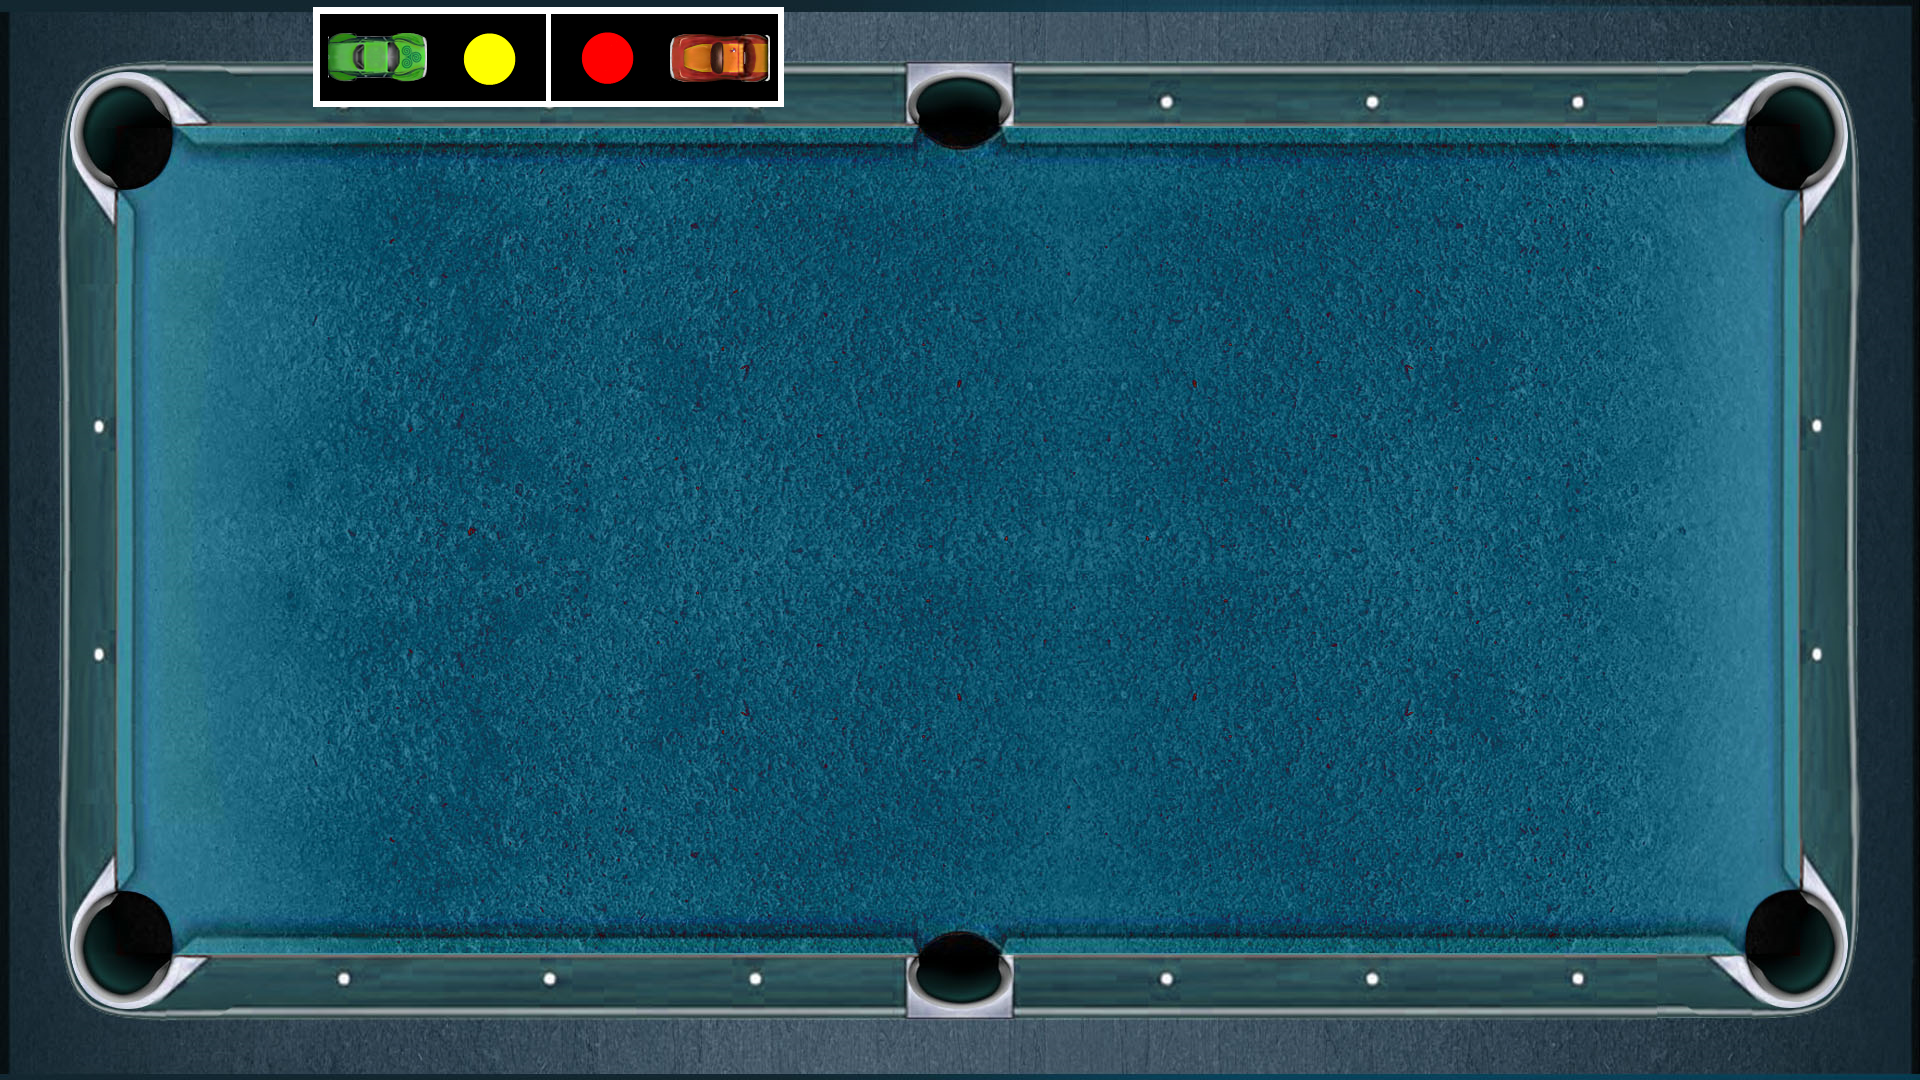
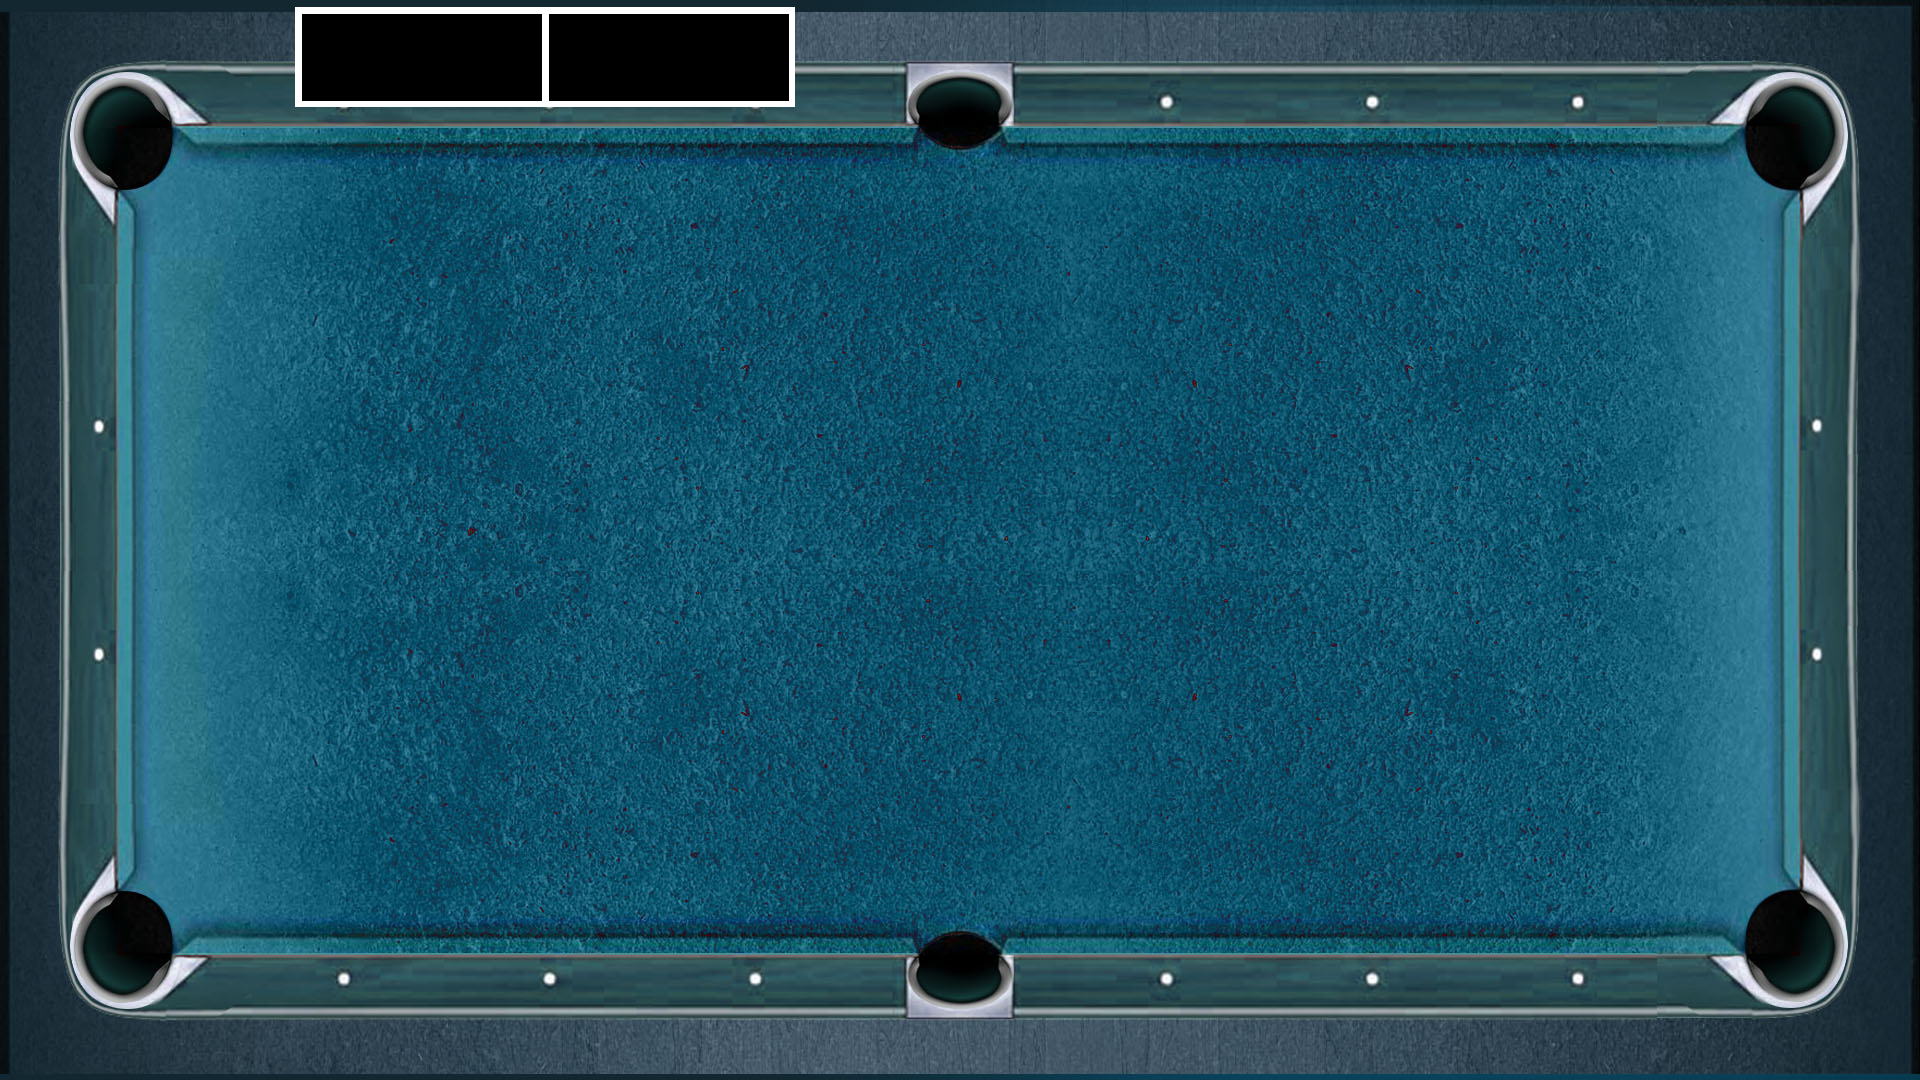
Car pool level, fixing up some art adding black ball pots team

Changed region(s): [[0.1562, 0.0, 0.4375, 0.0917]]

diff --git a/core/src/main/java/com/ladinc/core/screen/gamemodes/carpool/CarPoolScreen.java b/core/src/main/java/com/ladinc/core/screen/gamemodes/carpool/CarPoolScreen.java
@@ -2,9 +2,13 @@ package com.ladinc.core.screen.gamemodes.carpool;
 
 import java.util.ArrayList;
 
+import com.badlogic.gdx.graphics.g2d.Sprite;
+import com.badlogic.gdx.graphics.g2d.SpriteBatch;
+import com.badlogic.gdx.math.MathUtils;
 import com.badlogic.gdx.math.Vector2;
 import com.ladinc.core.CarPartA;
 import com.ladinc.core.ai.SimpleAi;
+import com.ladinc.core.assets.CarsHelper;
 import com.ladinc.core.objects.balls.PoolBall;
 import com.ladinc.core.objects.balls.PoolBall.ColourBall;
 import com.ladinc.core.screen.gamemodes.GameModeMetaInfo;
@@ -14,12 +18,22 @@ import com.ladinc.core.screen.gamemodes.GameModeMetaInfo.GameMode;
 import com.ladinc.core.screen.gamemodes.soccer.SoccerScreen;
 import com.ladinc.core.utilities.Enums.Team;
 import com.ladinc.core.ux.DescriptionScreenInfo;
+import com.ladinc.core.vehicles.Vehicle;
 
 public class CarPoolScreen extends GenericScreen 
 {
 	private CarPoolLayout carPoolLayout;
 	private ColourBall colourIntertedIn;
 	private float shortestDistanceBetweenAiAndBall = 0.0f;
+	
+	private Sprite homeTeamCarSprite;
+	private Sprite homeTeamBallSprite;
+	
+	private Sprite awayTeamCarSprite;
+	private Sprite awayTeamBallSprite;
+
+	
+	CarPoolColisionHelper poolColHelper;
 	
 	public CarPoolScreen(CarPartA game) {
 		super(game);
@@ -33,9 +47,35 @@ public class CarPoolScreen extends GenericScreen
 		
 	}
 	
+	private void handleBlackPotted(Team team)
+	{
+		if(team == Team.Home)
+		{
+			for(Vehicle v : this.getHomeVehicles())
+			{
+				v.respawnTimeRemaining = 5f;
+			}
+		}
+		else if(team == Team.Away)
+		{
+			for(Vehicle v : this.getAwayVehicles())
+			{
+				v.respawnTimeRemaining = 5f;
+			}
+		}
+		
+	}
+	
 	@Override
 	public void customRender(float delta)
 	{
+		if(this.poolColHelper.blackPotted)
+		{
+			this.poolColHelper.blackPotted = false;
+			handleBlackPotted(this.poolColHelper.lastTeamToTouchBlack);
+			
+		}
+		
 		if (this.carPoolLayout.poolTable.checkForWin()
 				&& !this.proccessingGameOver)
 		{
@@ -71,7 +111,8 @@ public class CarPoolScreen extends GenericScreen
 	{
 		gameMode = GameMode.CarPool;
 		
-		this.colHelper = new CarPoolColisionHelper();
+		poolColHelper = new CarPoolColisionHelper();
+		this.colHelper = poolColHelper;
 		world.setContactListener(this.colHelper);
 		
 		this.backgroundSprite = this.carPoolLayout.poolTable
@@ -87,6 +128,22 @@ public class CarPoolScreen extends GenericScreen
 		{
 			ai.resetAiBetweenLevels();
 		}
+		
+		homeTeamCarSprite = new Sprite(CarsHelper.getTeamCar(Team.Home));
+		awayTeamCarSprite = new Sprite(CarsHelper.getTeamCar(Team.Away));
+		
+		homeTeamCarSprite.setRotation(MathUtils.radiansToDegrees * ((float) Math.PI/2));
+		homeTeamCarSprite.setPosition(this.screenWidth/4 - 130f, screenHeight - 110f);
+		
+		awayTeamCarSprite.setRotation(MathUtils.radiansToDegrees * ((float) Math.PI/2) * 3);
+		awayTeamCarSprite.setPosition(this.screenWidth/4 + 210f, screenHeight - 110f);
+		
+		homeTeamBallSprite = new Sprite(PoolBall.getYellowBallSprite());
+		awayTeamBallSprite = new Sprite(PoolBall.getRedBallSprite());
+		
+		awayTeamBallSprite.setPosition(this.screenWidth/4 + 100f, screenHeight - 85f);
+		
+		homeTeamBallSprite.setPosition(this.screenWidth/4 - 20f, screenHeight - 85f);
 		
 	}
 	
@@ -141,6 +198,9 @@ public class CarPoolScreen extends GenericScreen
 	{
 		this.carPoolLayout.poolTable.updateBallSprites(spriteBatch,
 				PIXELS_PER_METER);
+		
+		drawInfo(spriteBatch);
+		
 		if (this.proccessingGameOver)
 		{
 			this.finishMessage.draw(spriteBatch);
@@ -155,6 +215,16 @@ public class CarPoolScreen extends GenericScreen
 		
 		this.gameOverCoolOffTimer = 5.0f;
 		this.proccessingGameOver = true;
+	}
+	
+	public void drawInfo(SpriteBatch sb)
+	{
+		
+		homeTeamCarSprite.draw(sb);
+		awayTeamCarSprite.draw(sb);
+		
+		homeTeamBallSprite.draw(sb);
+		awayTeamBallSprite.draw(sb);
 	}
 
 	@Override
@@ -175,7 +245,7 @@ public class CarPoolScreen extends GenericScreen
 		info.howToWinText.add("The first team to pot all their balls wins.");
 		info.howToWinText.add("Cars that are potted will respawn.");
 		info.howToWinText.add("");
-		info.howToWinText.add("Black ball is mysterious .... tbh it currently does nothing.");
+		info.howToWinText.add("Potting the black ball will pot your entire team.");
 		// TODO Auto-generated method stub
 		return info;
 	}

diff --git a/core/src/main/java/com/ladinc/core/screen/gamemodes/carpool/CarPoolColisionHelper.java b/core/src/main/java/com/ladinc/core/screen/gamemodes/carpool/CarPoolColisionHelper.java
@@ -11,12 +11,17 @@ import com.ladinc.core.collision.CollisionHelper;
 import com.ladinc.core.collision.CollisionInfo;
 import com.ladinc.core.collision.CollisionInfo.CollisionObjectType;
 import com.ladinc.core.objects.balls.PoolBall;
+import com.ladinc.core.objects.balls.PoolBall.ColourBall;
+import com.ladinc.core.utilities.Enums.Team;
 import com.ladinc.core.vehicles.Vehicle;
 
 public class CarPoolColisionHelper implements ContactListener
 {
 	public static final float RESPAWN_TIME = 5.0f;
 
+	public boolean blackPotted = false;
+	public Team lastTeamToTouchBlack = Team.Neutral;
+	
 	@Override
 	public void beginContact(Contact contact) 
 	{
@@ -34,17 +39,25 @@ public class CarPoolColisionHelper implements ContactListener
         	
         	if(CollisionHelper.checkIfCollisionIsOfCertainBodies(bodyAInfo, bodyBInfo, CollisionObjectType.Pocket, CollisionObjectType.BallSensor))
         	{
-        		
+        		PoolBall pb;
         		if(bodyAInfo.type == CollisionObjectType.BallSensor)
         		{
-        			PoolBall pb = (PoolBall)bodyAInfo.object;
+        			pb = (PoolBall)bodyAInfo.object;
+        			pb.isActive = false;
+        		}
+        		else
+        		{
+        			pb = (PoolBall)bodyBInfo.object;
         			pb.isActive = false;
         		}
         		
-        		if(bodyBInfo.type == CollisionObjectType.BallSensor)
+        		if(pb.colour == ColourBall.Black)
         		{
-        			PoolBall pb = (PoolBall)bodyBInfo.object;
-        			pb.isActive = false;
+        			if(pb.lastPlayerToHit != null)
+        			{
+        				this.blackPotted = true;
+        				this.lastTeamToTouchBlack = pb.lastPlayerToHit.team;
+        			}
         		}
 
         		
@@ -68,7 +81,25 @@ public class CarPoolColisionHelper implements ContactListener
         	if(bodyAInfo.type == CollisionObjectType.Vehicle && bodyBInfo.type == CollisionObjectType.Vehicle)
         	{
         		//vehicleCollideIsDetected(bodyAInfo, bodyBInfo);
-        	}	   	
+        	}
+        	
+        	if(bodyAInfo.type == CollisionObjectType.Vehicle && bodyBInfo.type == CollisionObjectType.Ball)
+        	{
+        		PoolBall pb;
+        		Vehicle v;
+        		if(bodyAInfo.type == CollisionObjectType.Ball)
+        		{
+        			pb = (PoolBall)bodyAInfo.object;
+        			v = (Vehicle)bodyBInfo.object;
+        		}
+        		else
+        		{
+        			pb = (PoolBall)bodyBInfo.object;
+        			v = (Vehicle)bodyAInfo.object;
+        		}
+        		
+        		pb.lastPlayerToHit = v.player;
+        	}	 
         }
 		
 	}

diff --git a/core/src/main/java/com/ladinc/core/objects/balls/PoolBall.java b/core/src/main/java/com/ladinc/core/objects/balls/PoolBall.java
@@ -12,6 +12,8 @@ import com.badlogic.gdx.physics.box2d.joints.PrismaticJointDef;
 import com.ladinc.core.assets.Art;
 import com.ladinc.core.collision.CollisionInfo;
 import com.ladinc.core.collision.CollisionInfo.CollisionObjectType;
+import com.ladinc.core.player.PlayerInfo;
+import com.ladinc.core.utilities.Enums.Team;
 
 public class PoolBall extends Ball
 {
@@ -25,12 +27,16 @@ public class PoolBall extends Ball
 	public static final String YELLOW_BALL = "YELLOW_BALL";
 	public static final String BLACK_BALL = "BLACK_BALL";
 	
+	public PlayerInfo lastPlayerToHit = null;
+	
 	public PoolBall(World world, float x, float y, float ballSize, float density, float linDamp, ColourBall colour) 
 	{
 		super(world, x, y, getSpriteFromColour(colour), ballSize, density, linDamp);
 		this.colour = colour;
 		
 		createSensorBody(world, x, y);
+		
+		this.body.setUserData(new CollisionInfo("Ball", CollisionObjectType.Ball, this));
 		
 	}
 	
